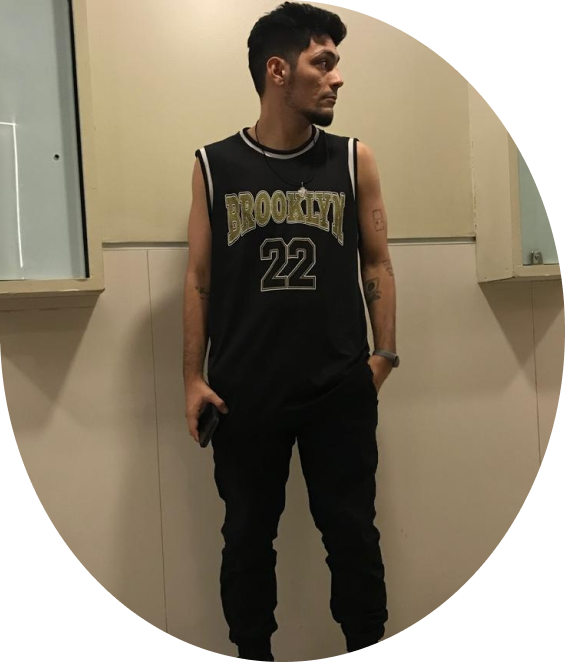
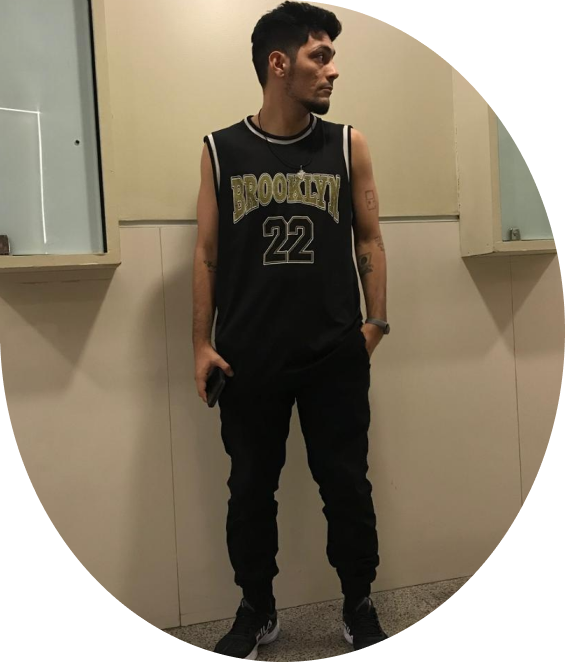
Alterando perfil sobre

diff --git a/src/pages/Sobre/Sobre.module.css b/src/pages/Sobre/Sobre.module.css
@@ -16,11 +16,11 @@
 }
 
 .avatar {
-  border-radius: 50%;
-  width: 150px;
-  height: 150px;
-  object-fit: cover;
-  margin-bottom: 20px; /* Efeito de transiï¿½ï¿½o suave para hover (opcional) */
+  width: 300px; /* Largura inicial */
+  height: 300px; /* Altura inicial */
+  object-fit: cover; /* Garante que a imagem cubra o espaï¿½o disponï¿½vel sem distorcer */
+  margin: -2px 5%;
+  transition: transform 0.3s ease; /* Efeito de transiï¿½ï¿½o suave para hover (opcional) */
 }
 
 .avatar:hover {

diff --git a/src/pages/Sobre/index.jsx b/src/pages/Sobre/index.jsx
@@ -4,7 +4,7 @@ import React from "react";
 // import css//
 import styles from "./Sobre.module.css";
 // import avatar //
-import avatar from "./images/";
+import avatar from "./images/avatar_2.png";
 
 // icones //
 import figma from "./images/icon-figma.svg";
